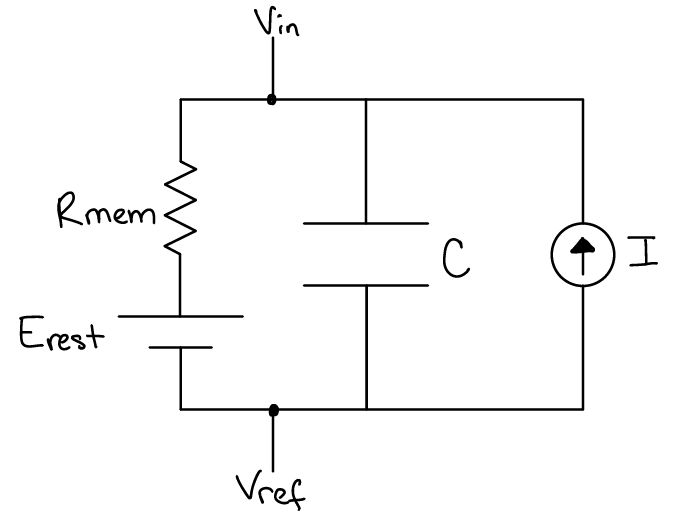
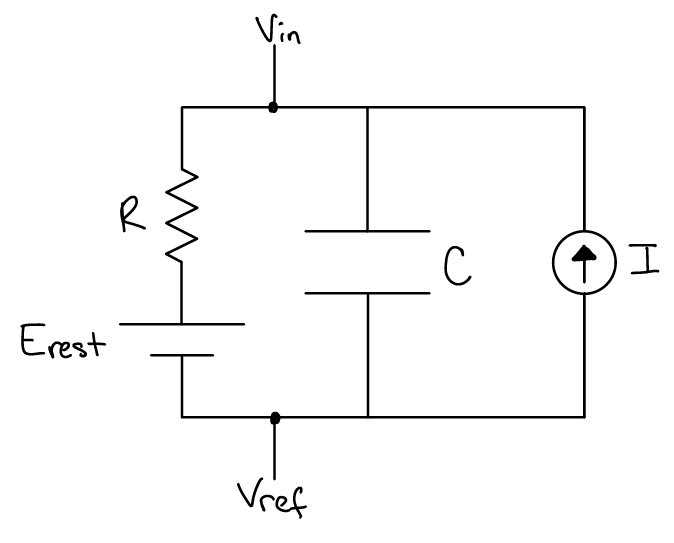
major edits to computational modelling module

Changed region(s): [[0.0623, 0.0, 0.997, 0.966], [0.0312, 0.5736, 0.1558, 0.6642], [0.6543, 0.4528, 0.7166, 0.5434]]

diff --git a/modules/computational-model/Lab-Manual_computational-model.md b/modules/computational-model/Lab-Manual_computational-model.md
@@ -14,36 +14,17 @@ A circuit diagram is a graphical representation of an electrical circuit. You ha
 :align: center
 :::
 
-
-:::{admonition} Task 1
-Draw a circuit diagram of the *resting membrane potential* (*$V_{rest}$*) model circuit that you used in [](/modules/passive-membrane-models/passive-membrane-models_landing). You have a hard copy of this circuit at your rig. Label one pair of components with subscript '1' and the other set with subscript '2'.
-:::
-
-:::{admonition} Task 2
-Draw a circuit diagram of the *RC* model circuit that you used in [](/modules/passive-membrane-models/passive-membrane-models_landing). You have a hard copy of this circuit at your rig.
-:::
-
-Today, you will need to include one more circuit component in your diagrams: a *current source*. A current source applies a current to the circuit.
+Today, you will need to use one more circuit component in your diagrams: a *current source*. A current source applies a current to the circuit.
 :::{image} ../../images/symbol_current-source.png
 :alt: circuit components
 :width: 100px
 :align: center
 :::
 
-
-
-:::{admonition} Task 3
-Answer the following questions:  
-a. In the *$V_{rest}$* model circuit, are the Voltage sources in series or in parallel?.  
-b. In the *$V_{rest}$* model circuit, are the resistors in series or in parallel?.  
-c. In the *$V_{rest}$* model circuit, are the Voltage source ($E_1$) and resistor ($R_1$) in series or in parallel?.
-:::
-
 Finally, to interpret circuit diagrams it is important to remember the following two principles: 
 1. voltage is equal at all points along continuous *wires* (lines uninterrupted by a circuit component such as a resistor, capacitor, or voltage source)
     > with a voltage meter, you can test this for yourself on the physical electrical circuit models at your table.
 2. current is equal at all points along individual wires between nodes of bifurcation or convergence
-
 
 
 ### Voltage and Current across Capacitors
@@ -67,7 +48,7 @@ $$
 
 Without a change in charge, there is no current. Similarly, if a current is applied accross a capacitor, then charge builds up on it ($\partial{Q}$)... and the voltage changes ($\partial{V}$).  
 
-:::{admonition} Task 6
+:::{admonition} Task 1
 Rearrange these equations for capacitor current and capacitor charge to get an equation for the change in voltage across time ($\partial{V} / \partial{t}$) in terms of the capacitor current ($I$). 
 
 *Only resort to this hint[^hint_dqdt] after discussing your strategy and considering the equations and equation manipulations for at least 5 minutes.* 
@@ -83,9 +64,6 @@ $$
   V = I * R
 $$
 
-:::{admonition} Task
-Rearrange the given equation for the voltage across a resistor to get an equation for the current across a resistor in terms of the voltage across the resistor and its resistance.  
-:::
 
 ## Concepts and Equations of Electric Circuits
 
@@ -95,7 +73,7 @@ Rearrange the given equation for the voltage across a resistor to get an equatio
 
 By the *law* of [*conservation of energy*](https://en.wikipedia.org/wiki/Kirchhoff%27s_circuit_laws#Kirchhoff's_voltage_law), it follows that the algebraic directed sum of the potential differences (voltages) around any closed loop is zero.
 
-::::{admonition} Task 4
+::::{admonition} Task 2
 Calculate the voltage at each labeled node ***n*** (relative to the reference *REF* node) in the following circuit diagrams.
 :::{image} ../../images/circuit-task_conservation-energy.png
 :alt: circuit diagram
@@ -109,7 +87,7 @@ Calculate the voltage at each labeled node ***n*** (relative to the reference *R
 
 By the *law* of [*conservation of charge*](https://en.wikipedia.org/wiki/Kirchhoff%27s_circuit_laws#Kirchhoff's_current_law), it follows that the current entering any *junction* (point of bifurcation or convergence) is equal to the current leaving that junction.
 
-::::{admonition} Task 5
+::::{admonition} Task 3
 Calculate the current at each labeled *n* node in the following circuit diagrams.
 :::{image} ../../images/circuit-task_conservation-charge.png
 :alt: circuit diagram
@@ -122,9 +100,9 @@ Calculate the current at each labeled *n* node in the following circuit diagrams
 
 With that introduction to drawing and analyzing circuit diagrams, you are ready to learn how to build computational models based on electric circuit models of neuron membranes. 
 
-### Resting Membrane Potential
+### Steady State Model
 
-::::{admonition} Task 6: Create a computational model of resting membrane potential
+::::{admonition} Task 4: Create a computational model of steady state (resting) membrane potential
 :name: computational-model-vrest
 Consider the following electric circuit model of resting membrane potential that you [worked with in Part I of the lab in Week 1](../passive-membrane-models/Lab-Manual_passive-membrane-models)
 :::{image} ../../images/circuit-task_membrane-potential-current-flow.png
@@ -147,13 +125,13 @@ Remember that each voltage source in the circuit represents a specific ion's equ
 
 *You have just built a computational model for the membrane potential of a neuron. You built the model from first principles of an electric circuit model of neuron membranes. Your model describes the voltage across the membrane in terms of voltage sources (*equilibrium potentials*) and resistors (*ion channel conductance*). In the Data Explorer, we will implement your model to test how well it explains resting membrane potentials of neurons.*
 
-:::{admonition} Task 7: Analyze your model by hand
+:::{admonition} Task 5: Analyze your model by hand
 Consider a neuron with two types of ion conductances: sodium ($Na$) and potassium ($K$). In your model, set $E_1$ equal to the sodium equilibrium potential and $R_1$ equal to the resistance across sodium channels. $E_2$ and $R_2$ will equal the equilibrium potential and resistance of the potassium conductance. 
 1. Use your model to calculate the predicted resting membrane potential ($V_{in}$) for a neuron where the equilibrium potential of sodium is +130mV, the resistance acrooss sodium channels is 5M$\Omega$, the equilibrium potential of potassium is -90mV, and the resistance acrooss potassium channels is 95M$\Omega$. 
 2. Use your model to calculate the predicted resting membrane potential ($V_{in}$) of the same neuron as in \#1, but with the resistance across sodium channels = 50M$\Omega$ and the resistance across potassium channels = 50M$\Omega$. 
 :::
 
-### Neural Membrane Response to Applied Current
+### Dynamic Model
 
 Physiologically, current gets applied across the membrane when synaptic inputs are activated. Understanding how membrane voltage changes in response to applied current is essential to understanding neural processing. Experimentally, current can be applied across the membrane when using intracellular electrode configurations. We therefore often do this to get information about how a specific neuron would process its synaptic inputs. 
 
@@ -173,24 +151,33 @@ Now, let's use that circuit to formulate a computational model and predict the v
 
 The effective behavior of Voltage and Current sources in a circuit can get conceptually tricky. Practically, you can think of the voltage source adjusting its resistance to match the current flowing through and the current source adjusting its resistance to match the voltage across it. In other words, instead of shunting $V_{in}$ and $V_{ref}$, the voltage across the current source is $V_{in}$ - $V_{ref}$. Ultimately, the current source controls the amount of current flowing in the circuit. 
 
-:::{admonition} Task 8: 
+:::{admonition} Task 6: 
 1. Assuming [*conservation of charge*](conservation-charge), write the equation for $V_{in}$ in terms of $V_{in}$, $E_{rest}$, $V_{ref}$, and the voltage across the membrane resistance. 
 2. Write the equation for the voltage aross the memebrane resistance in terms of $R_{mem}$ and the applied current (the current in the circuit).
 3. Substitute your equation from \#2 into your equation from \#1.
 :::
 
-You now have a computational model for $V_{in}$ in terms of $V_{ref}$, $E_{rest}$, $R_{mem}$, and the applied current. 
+You now have a computational model for $V_{in}$ in terms of $V_{ref}$, $E_{rest}$, $R_{mem}$, and the applied current ($I$). 
 
-:::{admonition} Task 9: Analyze the model
-Let's use the following values:
-$V_{ref}$ = 0
-$E_{rest}$ = -70mV
-$R_{mem}$ = 50M$\omega$
+::::{admonition} Task 7: Analyze the model
+Let's use the following values:  
+- $V_{ref}$ = 0  
+- $E_{rest}$ = -63mV  
+- $R_{mem}$ = 345$\Omega$  
 
 1. Calculate $V_{in}$ (relative to $V_{ref}$) when the applied current is 0
-2. Consider that you apply a current of 100pA across the model membrane. Calculate $V_{in}$ (relative to $V_{ref}$) when the applied current is 0
-:::
+2. Calculate $V_{in}$ (relative to $V_{ref}$) when the applied current is -50 pA.
+3. Draw the membrane voltage response (calculated based on your computational model) that you would predict across time in response to the following current stimulation protocol (1 sec duration, -50 pA amplitude square wave stimulation pulse applied across the membrane at t = 100 msec after the onset of a trial and followed by 100 msec of 0pA).
+    :::{image} /images/sample-applied-current-neg50pA.png
+    :width: 800
+    :::
+4. Take a look at the response of real neuron membrane to this same stimulus from the [cell types database at the Allen Brain Institute](https://celltypes.brain-map.org/experiment/electrophysiology/474626527).
+5. How did your prediction match the data from real neurons?
+::::
 
+So... the computational model you just formulated does not accurately capture (predict) the response of a neuron's membrane to applied current. 
+
+We know that neuron membranes act as capacitors in addition to acting as a resistor. Let's add that electrical component to the model membrane circuit and update the computational model. 
 
 :::{image} ../../images/circuit-task_RC-simple.png
 :alt: circuit diagram
@@ -198,9 +185,35 @@ $R_{mem}$ = 50M$\omega$
 :align: center
 :::
 
- 
+:::{admonition} Task 8
+1. Assuming a [conservation of charge](conservation-charge), write the equation for the applied current in terms of the current across $R$ and the current across $C$.
+2. What is the voltage across $C$ in terms of $V_{in}$, $V_{ref}$, and/or $E_{rest}$?
+3. What is the voltage across $R$ in terms of $V_{in}$, $V_{ref}$, and/or $E_{rest}$?
+4. Write the equation for the Current across a capacitor ($I_C$) in terms of the Voltage across a capacitor ($V_C$). Substitute the equation from \#2 in for $V_C$.
+5. Write the equation for the Current across a resistor ($I_R$) in terms of the Voltage across a resistor ($V_R$). Substitute the equation from \#3 in for $V_R$.
+6. When $I=0$, what is the voltage across $R$ ($V_R$)?
+7. When $I=0$, what is the voltage across $C$ ($V_C$)? 
+8. Substitute the equations from \#4 and \#5 into the equation from \#1. Remember that we can set $V_{ref}=0$.
+9. Solve the equation from \#6 for $\partial{V_{in}}$.
+:::
 
-In [](../passive-membrane-models/Lab-Manual_passive-membrane-models), you applied a current across an electric circuit model of a neuron membrane. In this model, the neuron membrane was modeled by an *RC circuit* in which a resistor and capacitor are arranged in parallel. You found that voltage does not change according to either $I \times R$ or $\frac{I}{C}$. Instead, in response to a current applied across the RC circuit, the voltage changes according to an exponential function, where the *time constant* ($\tau$) is the amount of time it takes for the voltage across the RC circuit to reach 63% of its maximum value. You measured this value for the passive membrane model you worked with in [](../passive-membrane-models/Lab-Manual_passive-membrane-models).
+*You have just built a computational model for the membrane potential of a neuron in response to applied current. Notice that it is a differential equation instead of a steady-state equation. In other words, the voltage of the membrane in response to an applied current will depend on the current voltage of the membrane (relative to the equilibrium potential) and the amount of time analyzed. In the Data Explorer, we will implement your model to test how well it explains resting membrane potentials of neurons.*
 
-## Use your work to implement computational models on the computer
-We will use the [Data Explorer](../computational-model/Data-Explorer_computational-model.ipynb) notebook to work through the implementation together during class. Later, you will answer questions in the [Responses](../computational-model/Responses_computational-model.ipynb) notebook.
+:::{admonition} Applying new concepts to old work
+In [](../passive-membrane-models/passive-membrane-models_landing), you applied a current across an electric circuit model of a neuron membrane. In this model, the neuron membrane was modeled by an *RC circuit* in which a resistor and capacitor are arranged in parallel. You found that voltage does not change according to either $I \times R$ or $\frac{I}{C}$. Instead, in response to a current applied across the RC circuit, the voltage changes according to an exponential function, where the *time constant* ($\tau$) is the amount of time it takes for the voltage across the RC circuit to reach 63% of its maximum value. You measured this value for the passive membrane model you worked with in [](../passive-membrane-models/passive-membrane-models_landing).
+:::
+
+## Extensions
+
+Ultimately, you could combine both computational models to create a more comprehensive model that captures the independent contribution of multiple ionic conductances and the membrane capacitance. 
+
+:::{image} /images/circuit-models-combined.png
+:alt: circuit diagram
+:width: 800px
+:align: center
+:::
+
+
+## Scripted implementation of computational models (SIMULATION)
+
+We will use the [Data Explorer](../computational-model/Data-Explorer_computational-model.ipynb) notebook to work through the implementation of your computational models together. Later, you will answer questions in the [Responses](../computational-model/Responses_computational-model.ipynb) notebook.
